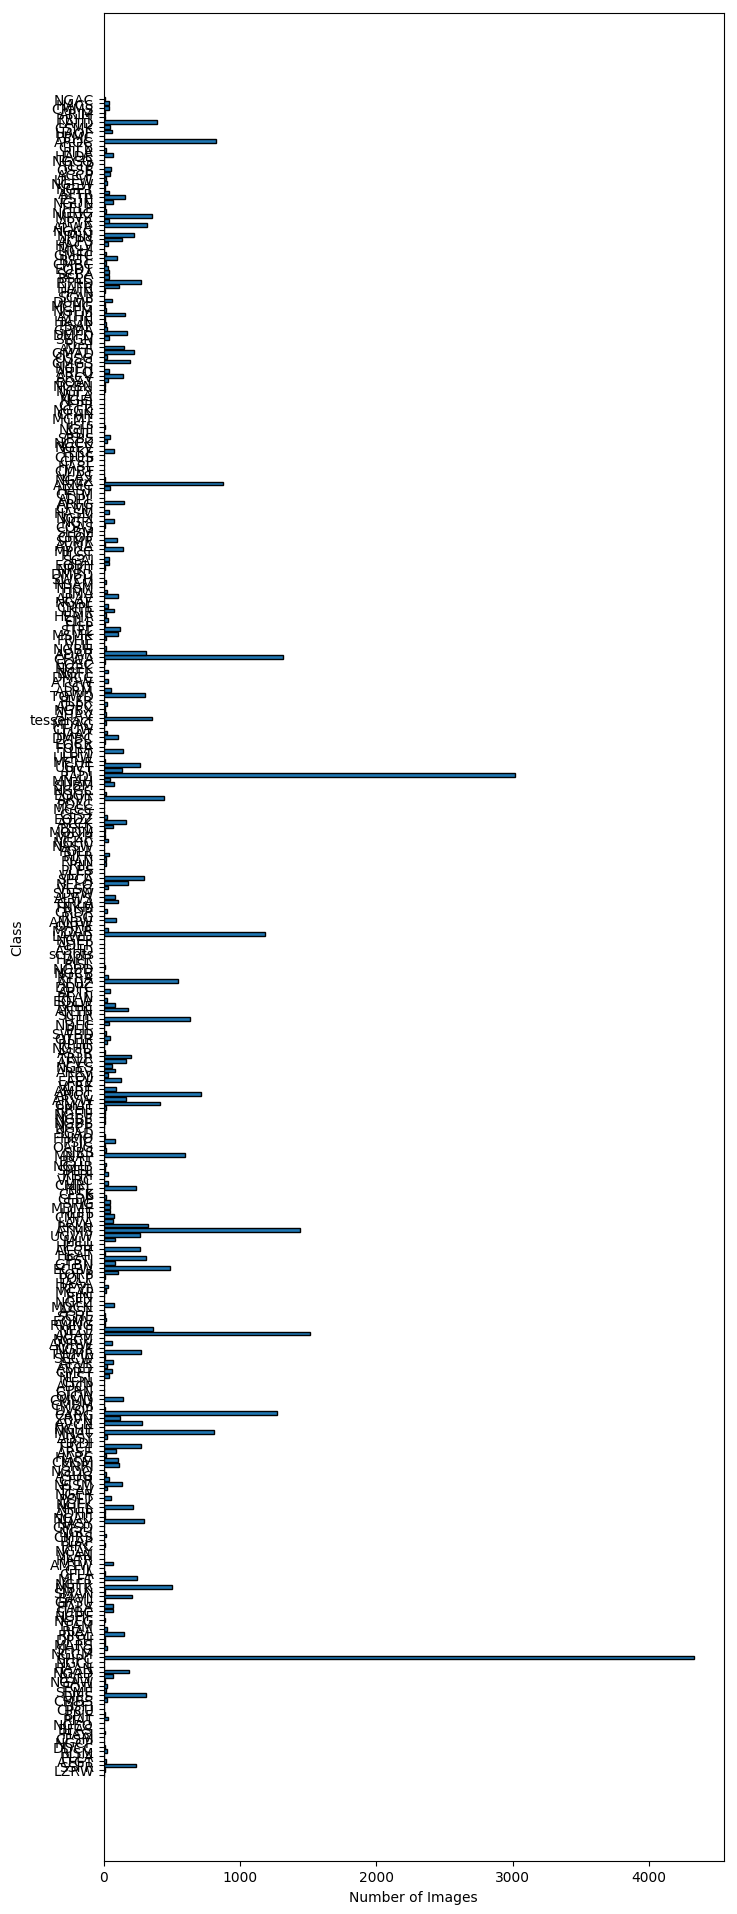
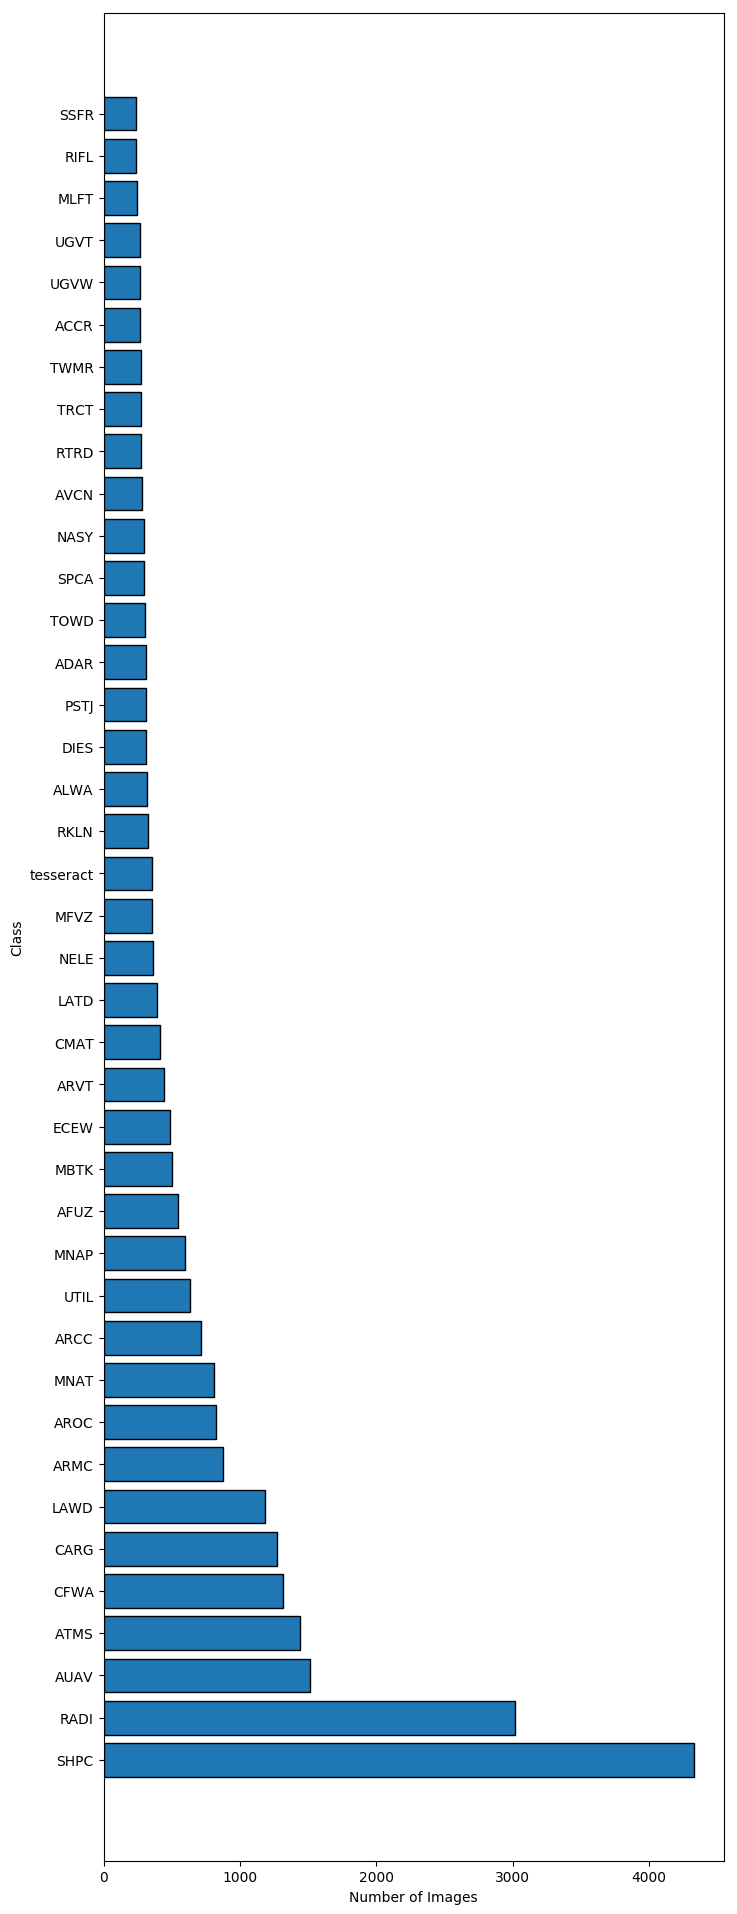
New plots

Changed region(s): [[0.0624, 0.0308, 0.9674, 0.9556]]

diff --git a/meta-analysis/plot_counts.py b/meta-analysis/plot_counts.py
@@ -35,8 +35,9 @@ if __name__ == "__main__":
     plt.savefig(args.output + '/hist_nimages.png', bbox_inches='tight')
     plt.close()
 
+    index = np.argsort(df['nimages'])[::-1]
     plt.figure(figsize=(8,24))
-    plt.barh(df['label'], df['nimages'], edgecolor='k')
+    plt.barh(df['label'].iloc[index][:40], df['nimages'].iloc[index][:40], edgecolor='k')
     plt.ylabel('Class')
     plt.xlabel('Number of Images')
     plt.savefig(args.output + '/barh_nimages.png', bbox_inches='tight')
